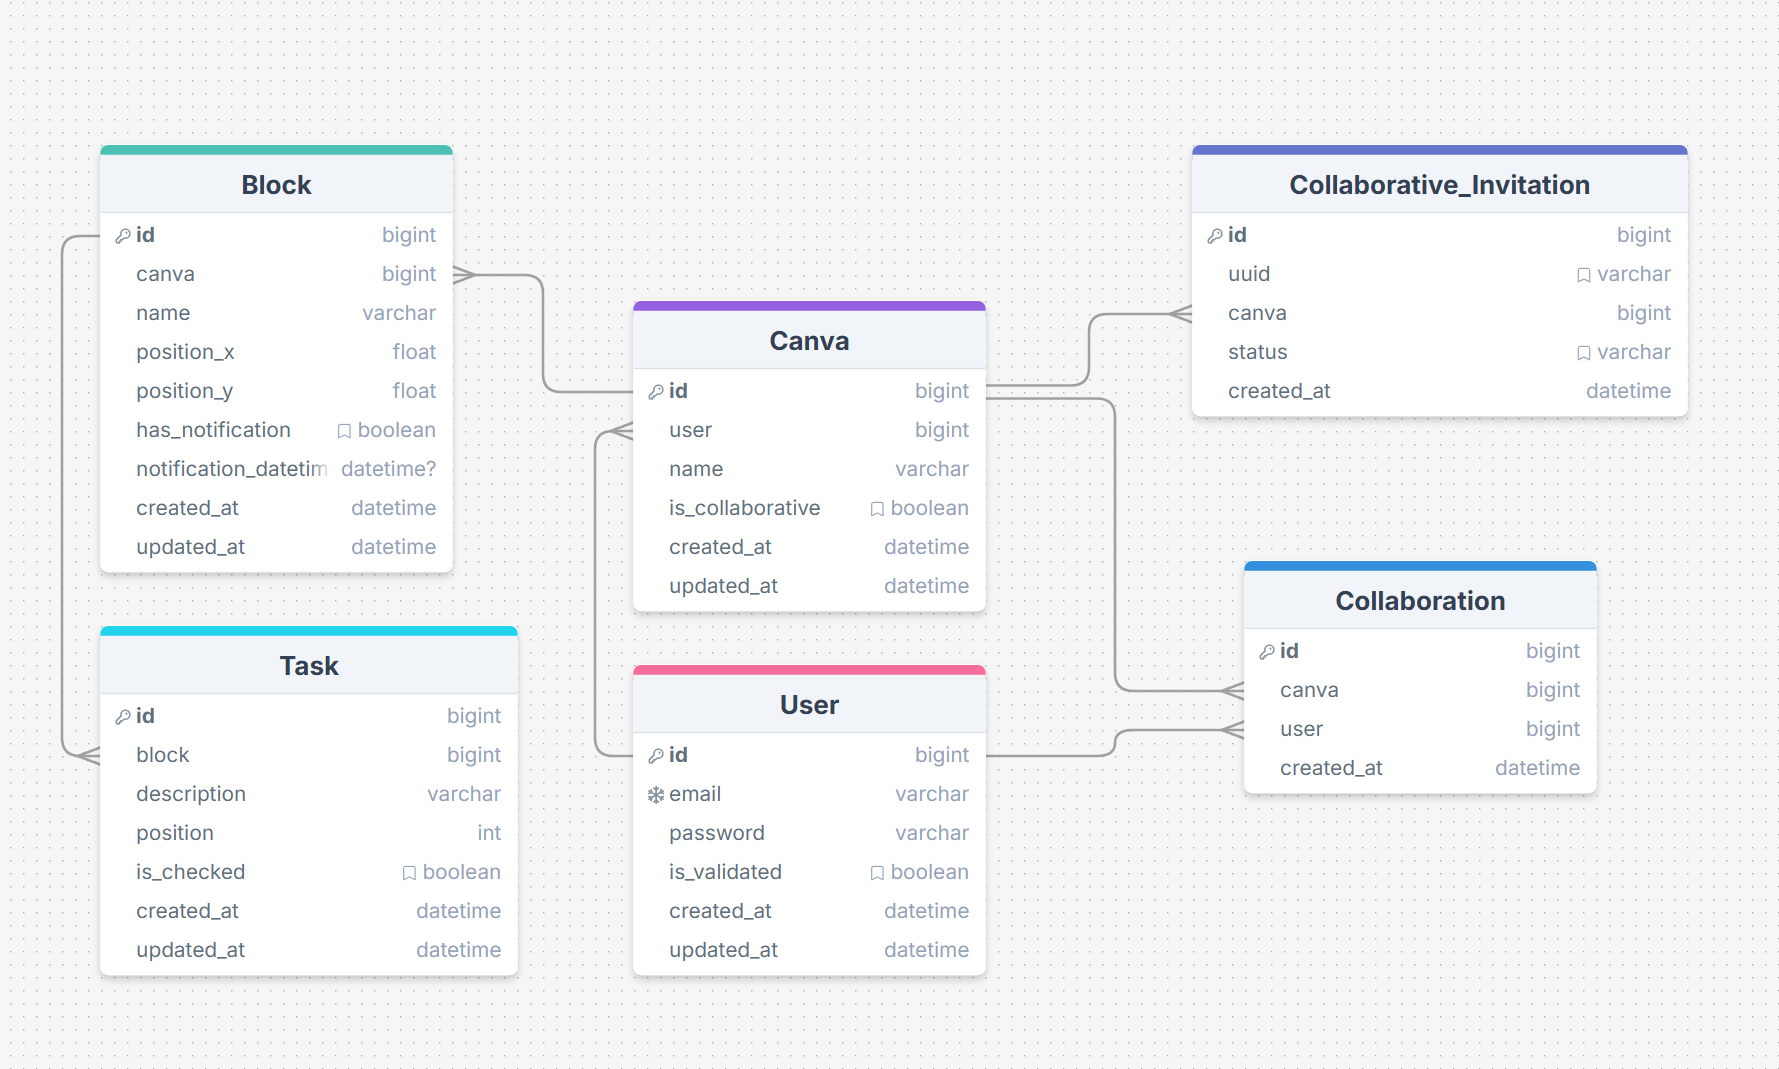
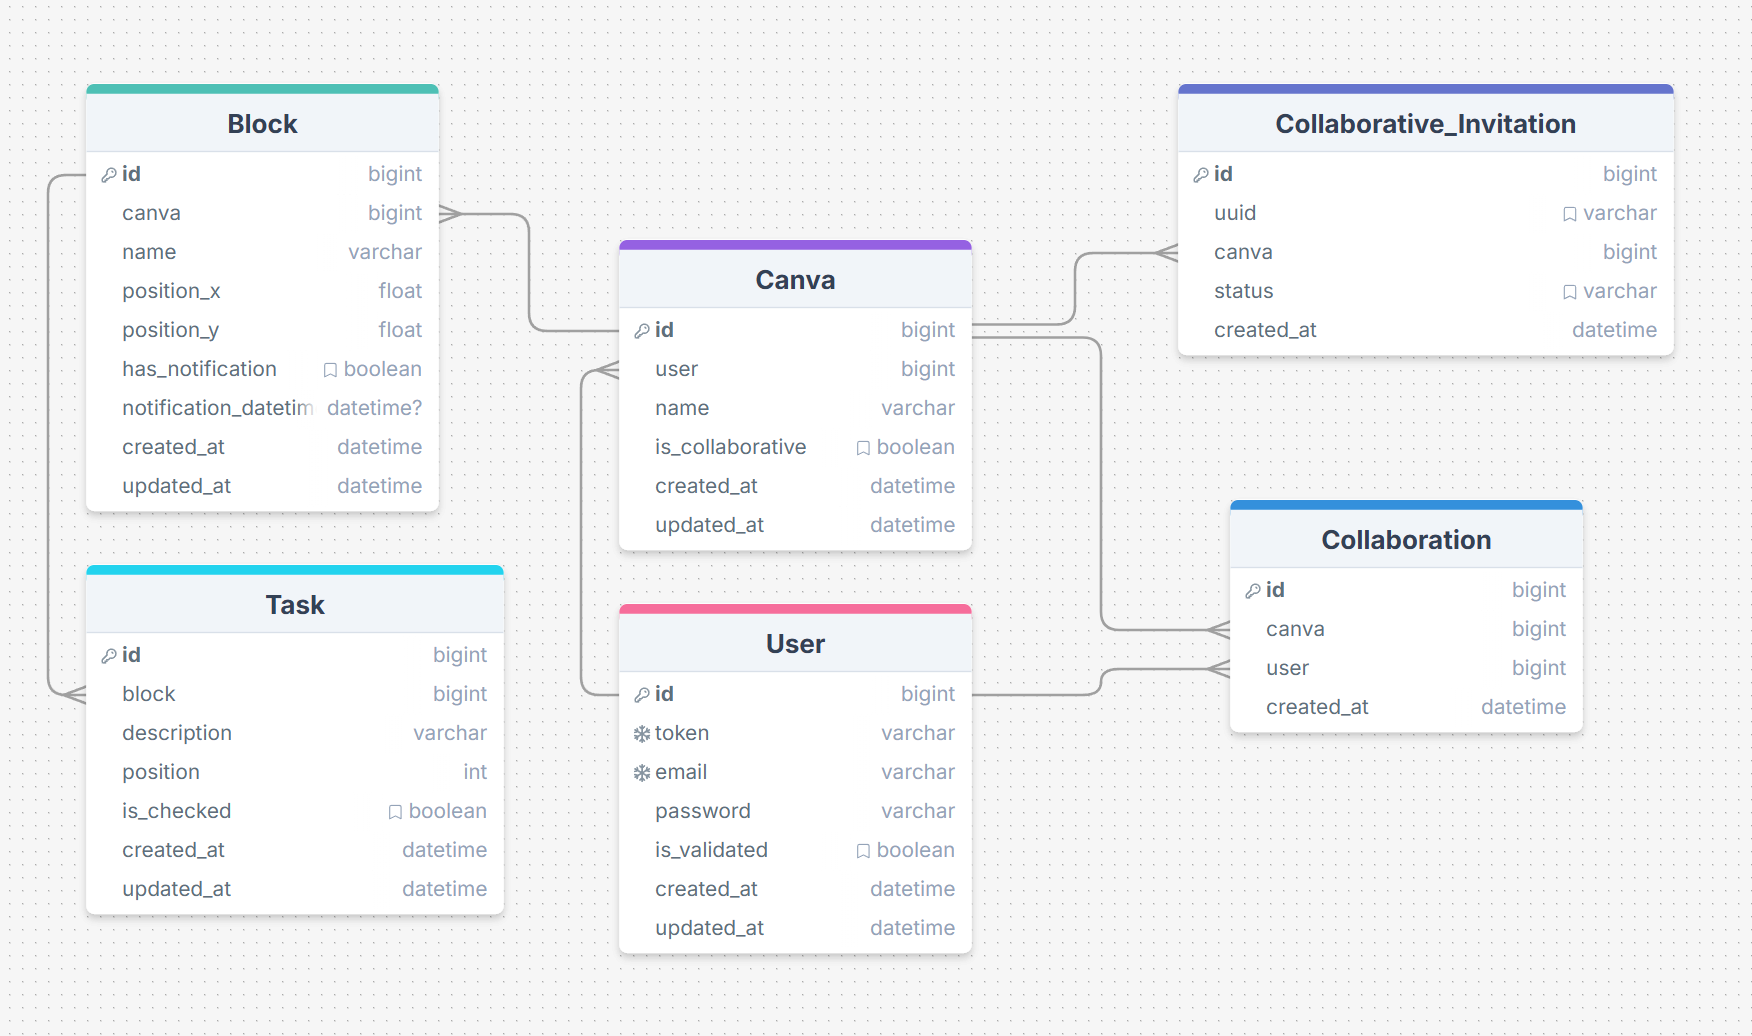
feat(serializer) : User serializers created
UserSerializer to retrieve, create, patch and password patch done

Changed region(s): [[0.3082, 0.2162, 0.9247, 0.9266], [0.0308, 0.0618, 0.3082, 0.9266], [0.6164, 0.0618, 0.9555, 0.4015]]

diff --git a/backend/api/models.py b/backend/api/models.py
@@ -1,15 +1,31 @@
 from django.db import models
+from django.contrib.auth.models import AbstractBaseUser, BaseUserManager
 import uuid
 
+class CustomUserManager(BaseUserManager):
+    def create_user(self, email, password, **extra_fields):
+        if not email:
+            raise ValueError("Email must be set")
+        email = self.normalize_email(email)
+        user = self.model(email=email, **extra_fields)
+        user.set_password(password)
+        user.save(using=self._db)
+        return user
 
-class User(models.Model):
+
+class User(AbstractBaseUser):
     id = models.UUIDField(primary_key=True, default=uuid.uuid4, editable=False)
     token = models.CharField(max_length=150, unique=True )
-    email = models.CharField(max_length=150, unique=True)
-    password = models.CharField(max_length=150)
+    email = models.EmailField(max_length=150, unique=True)
     is_validated = models.BooleanField(default=False)
     created_at = models.DateTimeField(auto_now_add=True, editable=False)
     updated_at = models.DateTimeField(auto_now=True)
+
+    objects = CustomUserManager()
+
+    USERNAME_FIELD = "email"
+    EMAIL_FIELD = "email"
+    REQUIRED_FIELDS = []
 
     class Meta:
         db_table = "user"

diff --git a/backend/api/serializers/user_serializers.py b/backend/api/serializers/user_serializers.py
@@ -1,0 +1,41 @@
+from rest_framework import serializers
+from ..models import User
+
+
+class UserSerializer(serializers.ModelSerializer):
+    class Meta:
+        model = User
+        fields = ["id", "email"]
+
+
+class UserCreateSerializer(serializers.ModelSerializer):
+    password = serializers.CharField(write_only=True)
+
+    def create(self, validated_data):
+        user = User.objects.create_user(
+            email=validated_data["email"], password=validated_data["password"]
+        )
+        return user
+
+    class Meta:
+        model = User
+        fields = ["email", "password"]
+
+
+class UserUpdateSerializer(serializers.ModelSerializer):
+    class Meta:
+        model = User
+        fields = ["email", "is_validated"]
+
+
+class UserUpdatePasswordSerializer(serializers.ModelSerializer):
+    password = serializers.CharField(write_only=True)
+
+    def update(self, instance, validated_data):
+        instance.set_password(validated_data["password"])
+        instance.save()
+        return instance
+
+    class Meta:
+        model = User
+        fields = ["password"]

diff --git a/backend/TODO_List/settings.py b/backend/TODO_List/settings.py
@@ -39,7 +39,10 @@ INSTALLED_APPS = [
     "django.contrib.staticfiles",
     "rest_framework",
     "corsheaders",
+    "api",
 ]
+
+AUTH_USER_MODEL = "api.User"
 
 CORS_ALLOWED_ORIGINS = [
     "http://localhost:3000",
